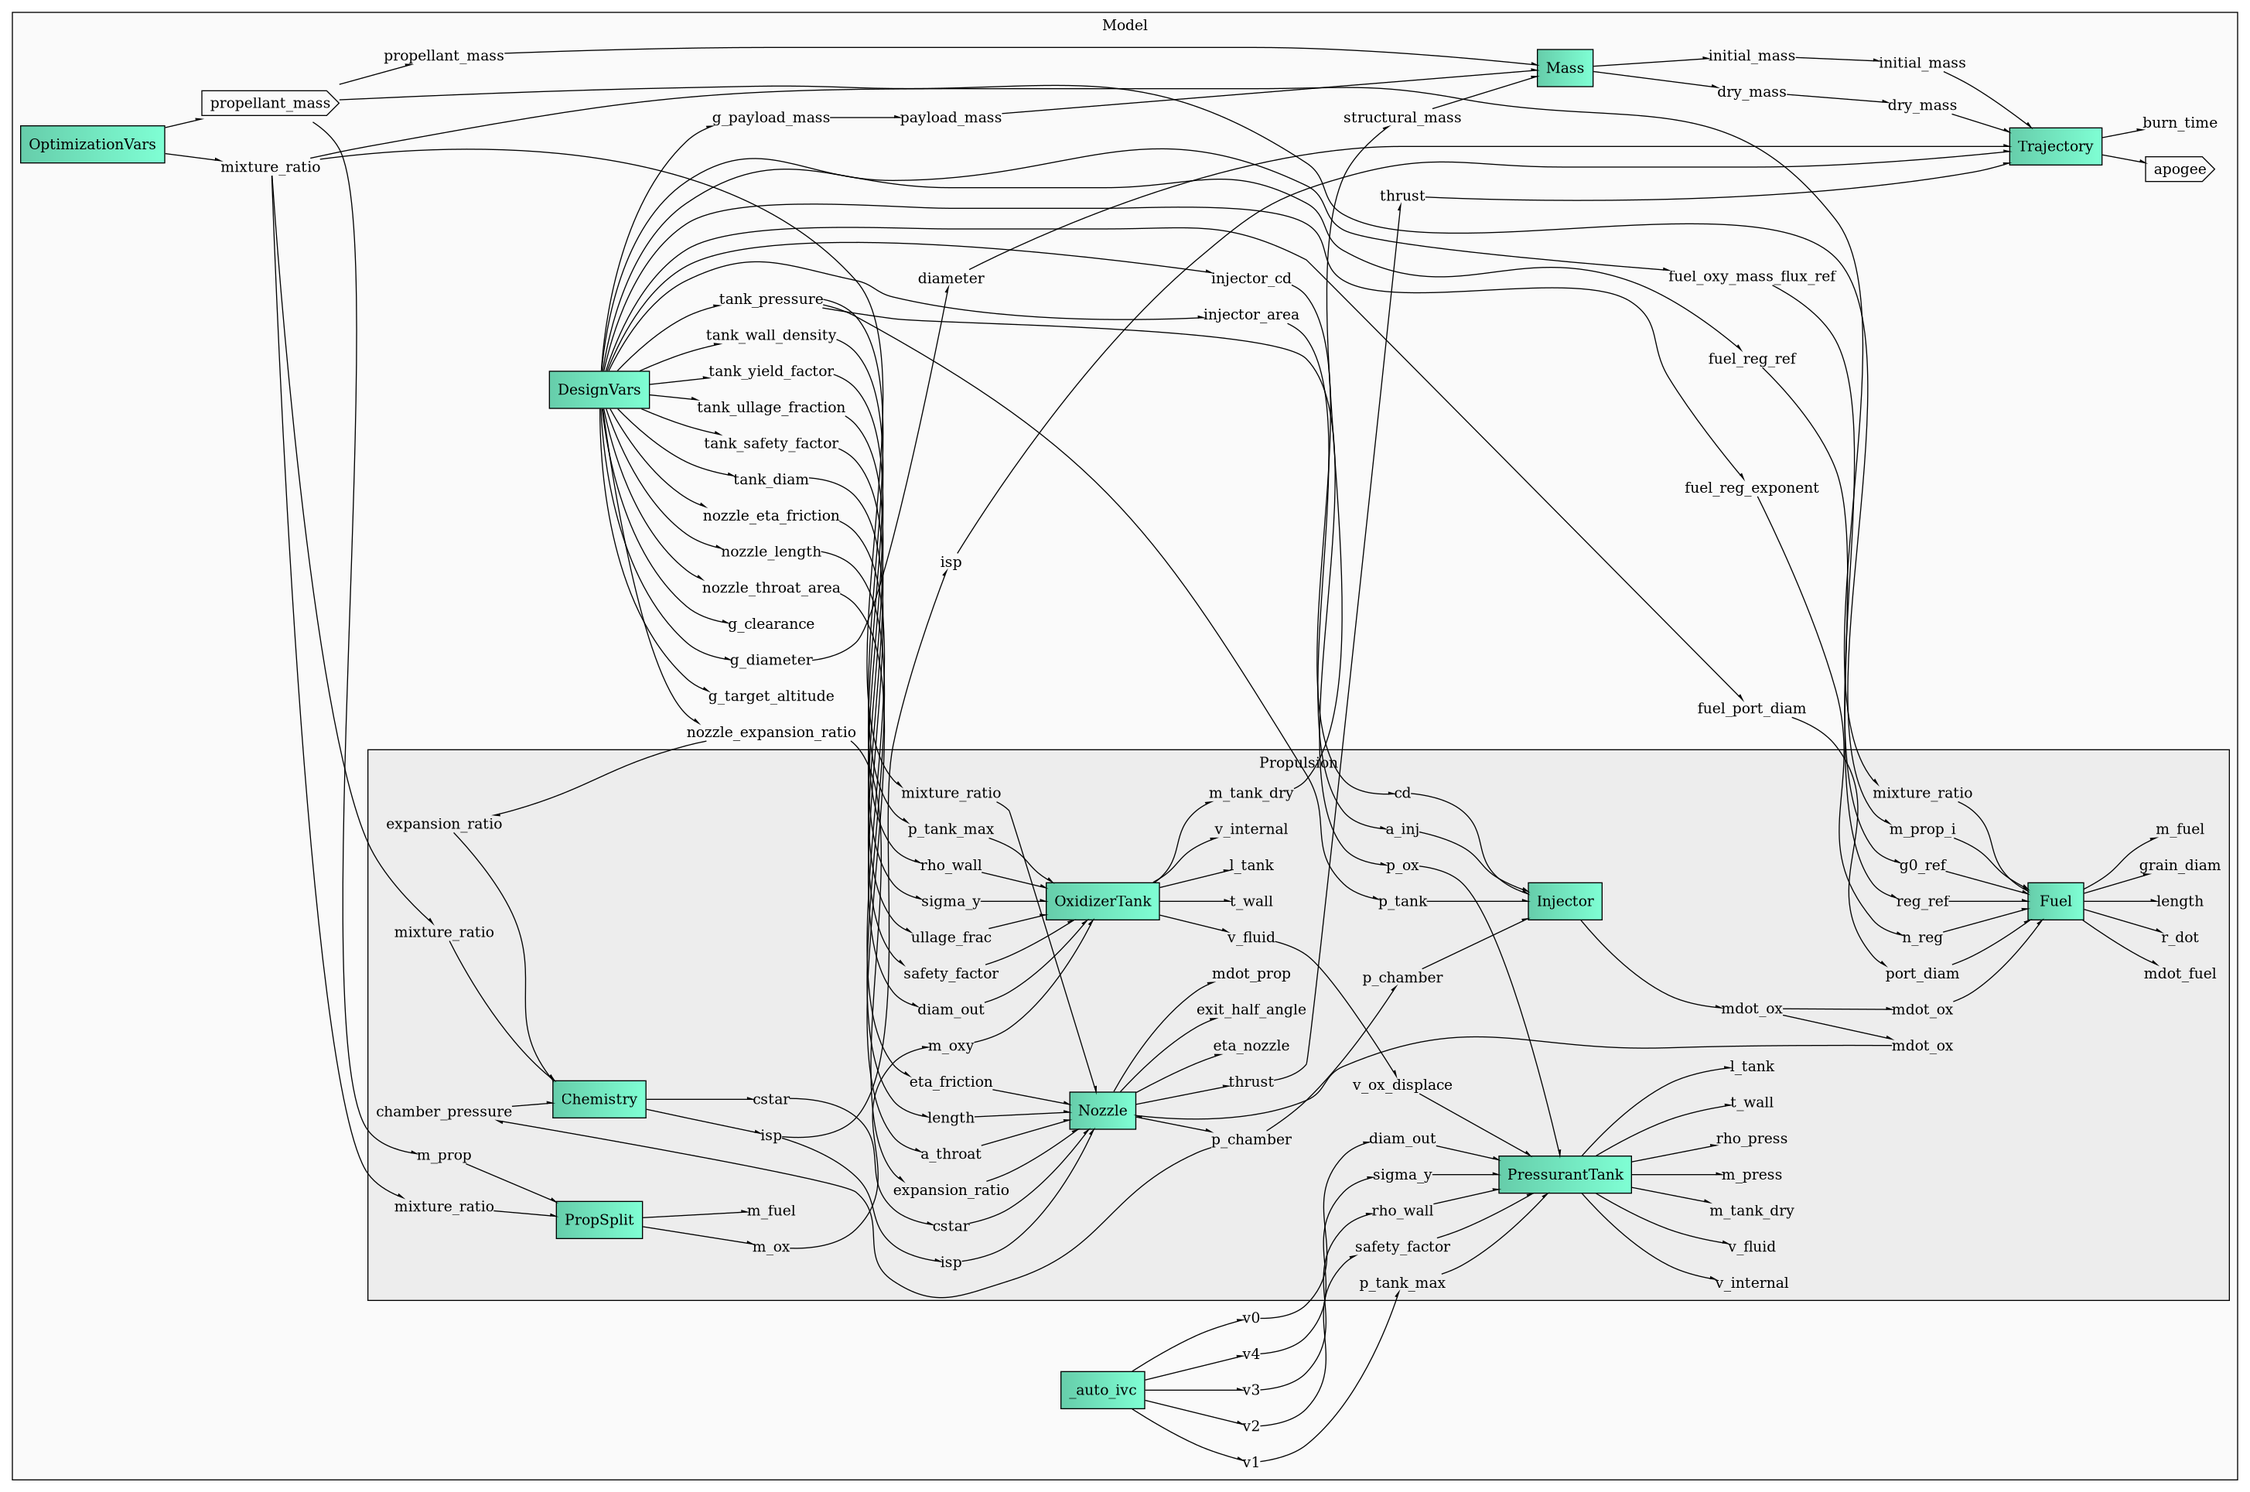
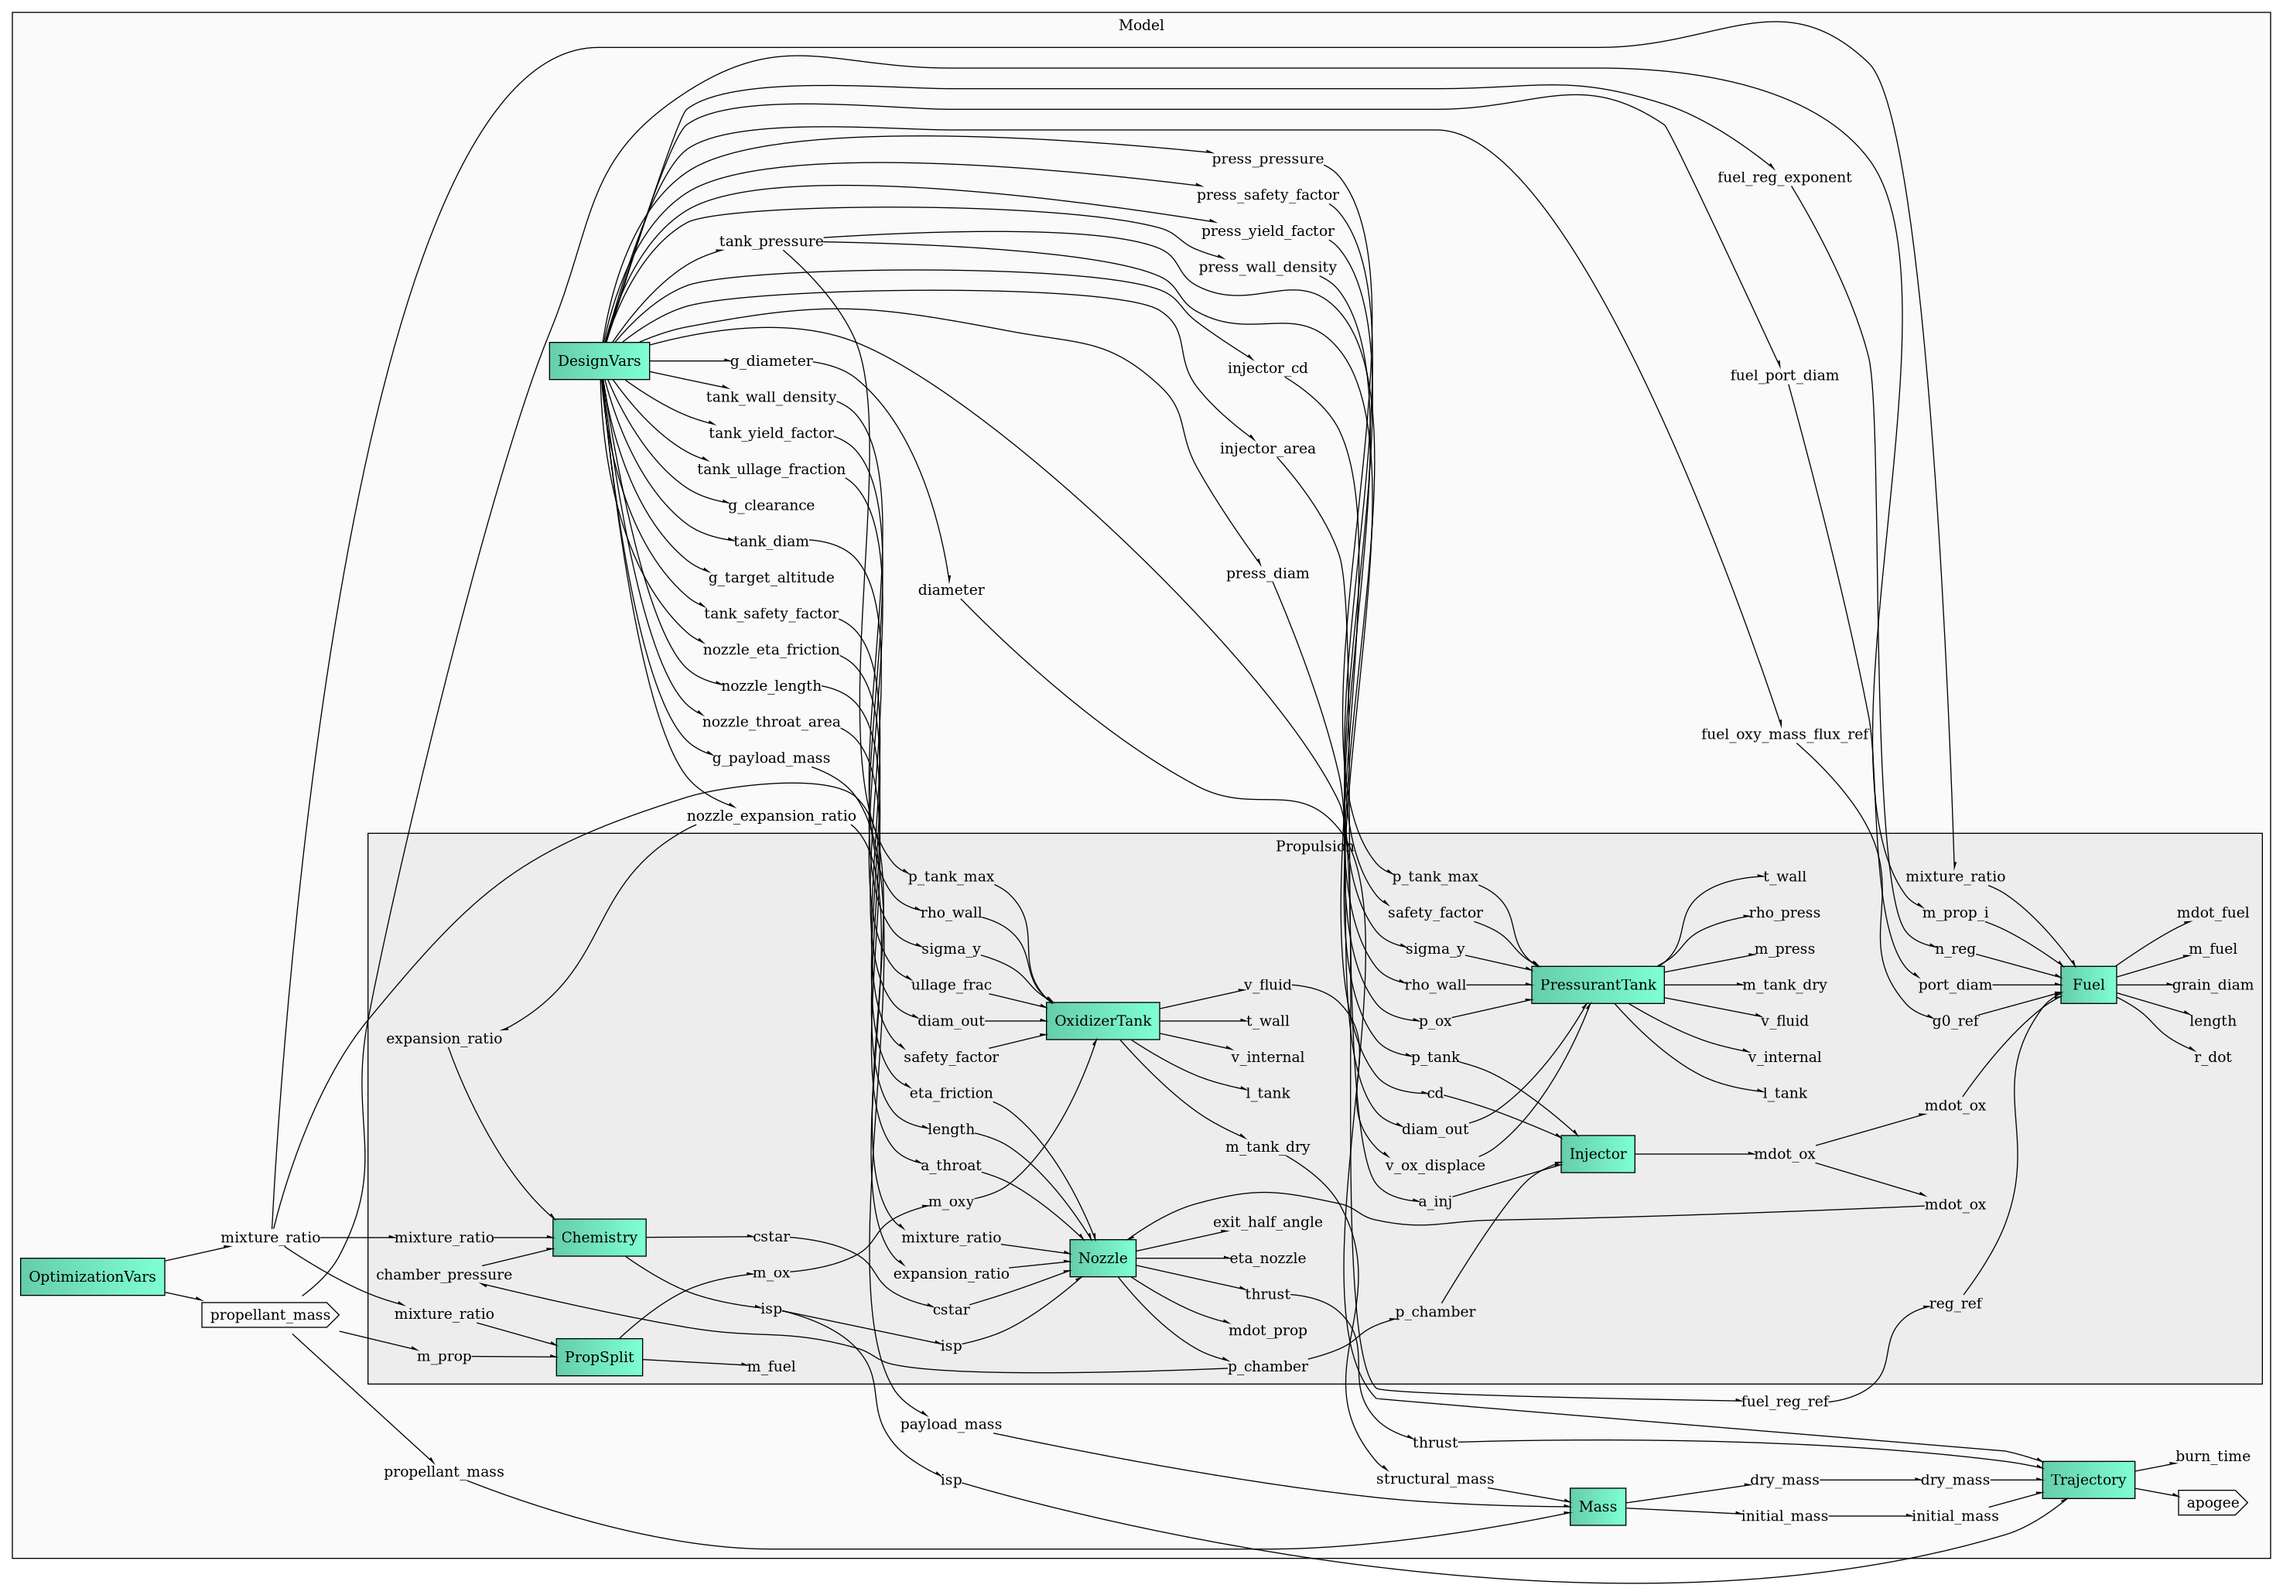
Wiring up the pressurant component

diff --git a/modules/BEARS_Rocket/group_rocket.py b/modules/BEARS_Rocket/group_rocket.py
@@ -38,7 +38,7 @@ class RocketGroup(Group):
 		# Clearance for component mounting
 		ivc.add_output("g_clearance",            val=0.002,  units="m")
 
-		# - Tank
+		# - Oxidizer tank
 		# NOTE: the tank component expects pressure in SI Pa units,
 		#       here we specify the pressure in units of bar used by the team
 		#       and let MDAO convert automatically on component boundary
@@ -48,6 +48,13 @@ class RocketGroup(Group):
 		ivc.add_output("tank_ullage_fraction",   val=0.1)
 		ivc.add_output("tank_yield_factor",      val=276e6,  units="Pa")
 		ivc.add_output("tank_wall_density",      val=2700.0, units="kg/m**3")
+
+		# - Pressurant tank
+		ivc.add_output("press_pressure",         val=200,    units="bar")
+		ivc.add_output("press_diam",             val=0.15,   units="m")
+		ivc.add_output("press_safety_factor",    val=2.0)
+		ivc.add_output("press_yield_factor",     val=276e6,  units="Pa")
+		ivc.add_output("press_wall_density",     val=2700.0, units="kg/m**3")
 
 		# - Injector
 		ivc.add_output("injector_area",          val=4.5e-5, units="m**2")
@@ -88,13 +95,20 @@ class RocketGroup(Group):
 		#endregion
 
 		#region Connections
-		# - Tank
+		# - Oxidizer tank
 		self.connect("DesignVars.tank_pressure",          "Propulsion.tank_pressure")
 		self.connect("DesignVars.tank_diam",              "Propulsion.tank_diam")
 		self.connect("DesignVars.tank_safety_factor",     "Propulsion.tank_safety_factor")
 		self.connect("DesignVars.tank_ullage_fraction",   "Propulsion.tank_ullage_frac")
 		self.connect("DesignVars.tank_yield_factor",      "Propulsion.tank_yield_factor")
 		self.connect("DesignVars.tank_wall_density",      "Propulsion.tank_wall_density")
+
+		# - Pressurant tank
+		self.connect("DesignVars.press_pressure",         "Propulsion.press_pressure")
+		self.connect("DesignVars.press_diam",             "Propulsion.press_diam")
+		self.connect("DesignVars.press_safety_factor",    "Propulsion.press_safety_factor")
+		self.connect("DesignVars.press_yield_factor",     "Propulsion.press_yield_factor")
+		self.connect("DesignVars.press_wall_density",     "Propulsion.press_wall_density")
 
 		# - Fuel
 		self.connect("DesignVars.fuel_port_diam",         "Propulsion.fuel_port_diam")
